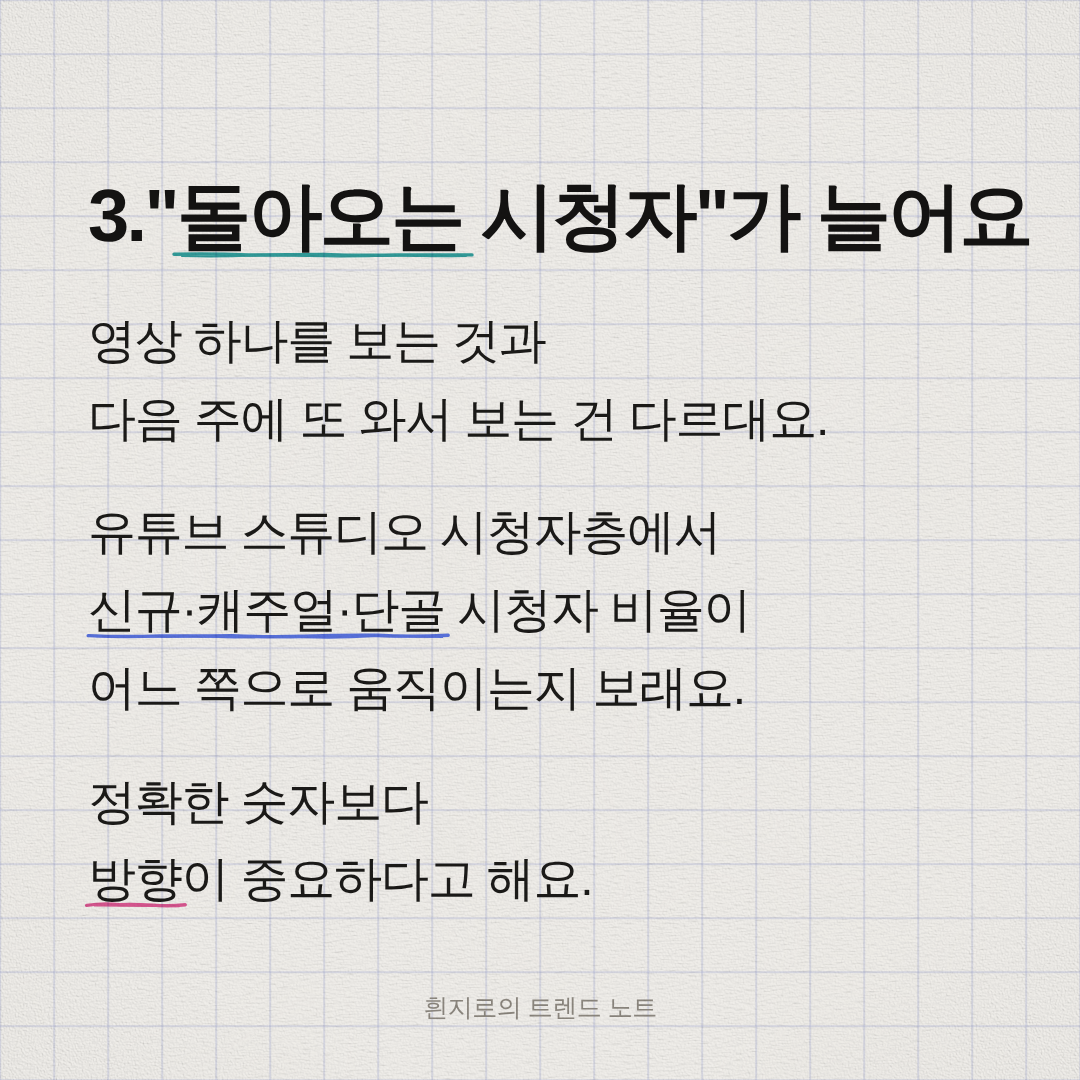
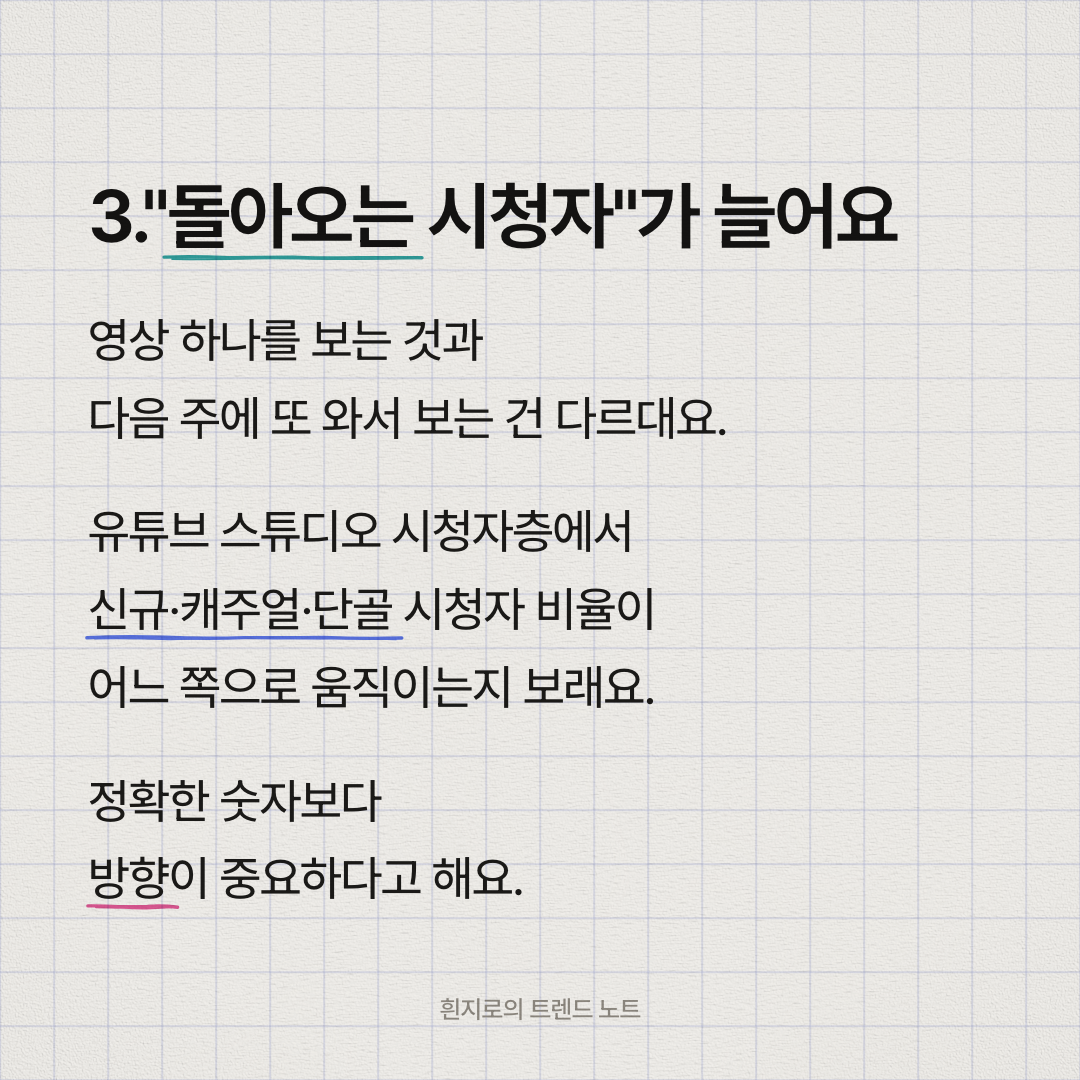
카드뉴스 11/22 Pretendard로 다시 렌더, 대시보드 갱신

diff --git a/cardnews/dashboard/data.js b/cardnews/dashboard/data.js
@@ -1,4 +1,4 @@
-// build.mjs가 만든 파일 — 직접 고치지 않는다 (2026-11-13T02:49:43.628Z)
+// build.mjs가 만든 파일 — 직접 고치지 않는다 (2026-11-13T02:51:10.196Z)
 window.CARDNEWS = [
  {
   "variants": {},
